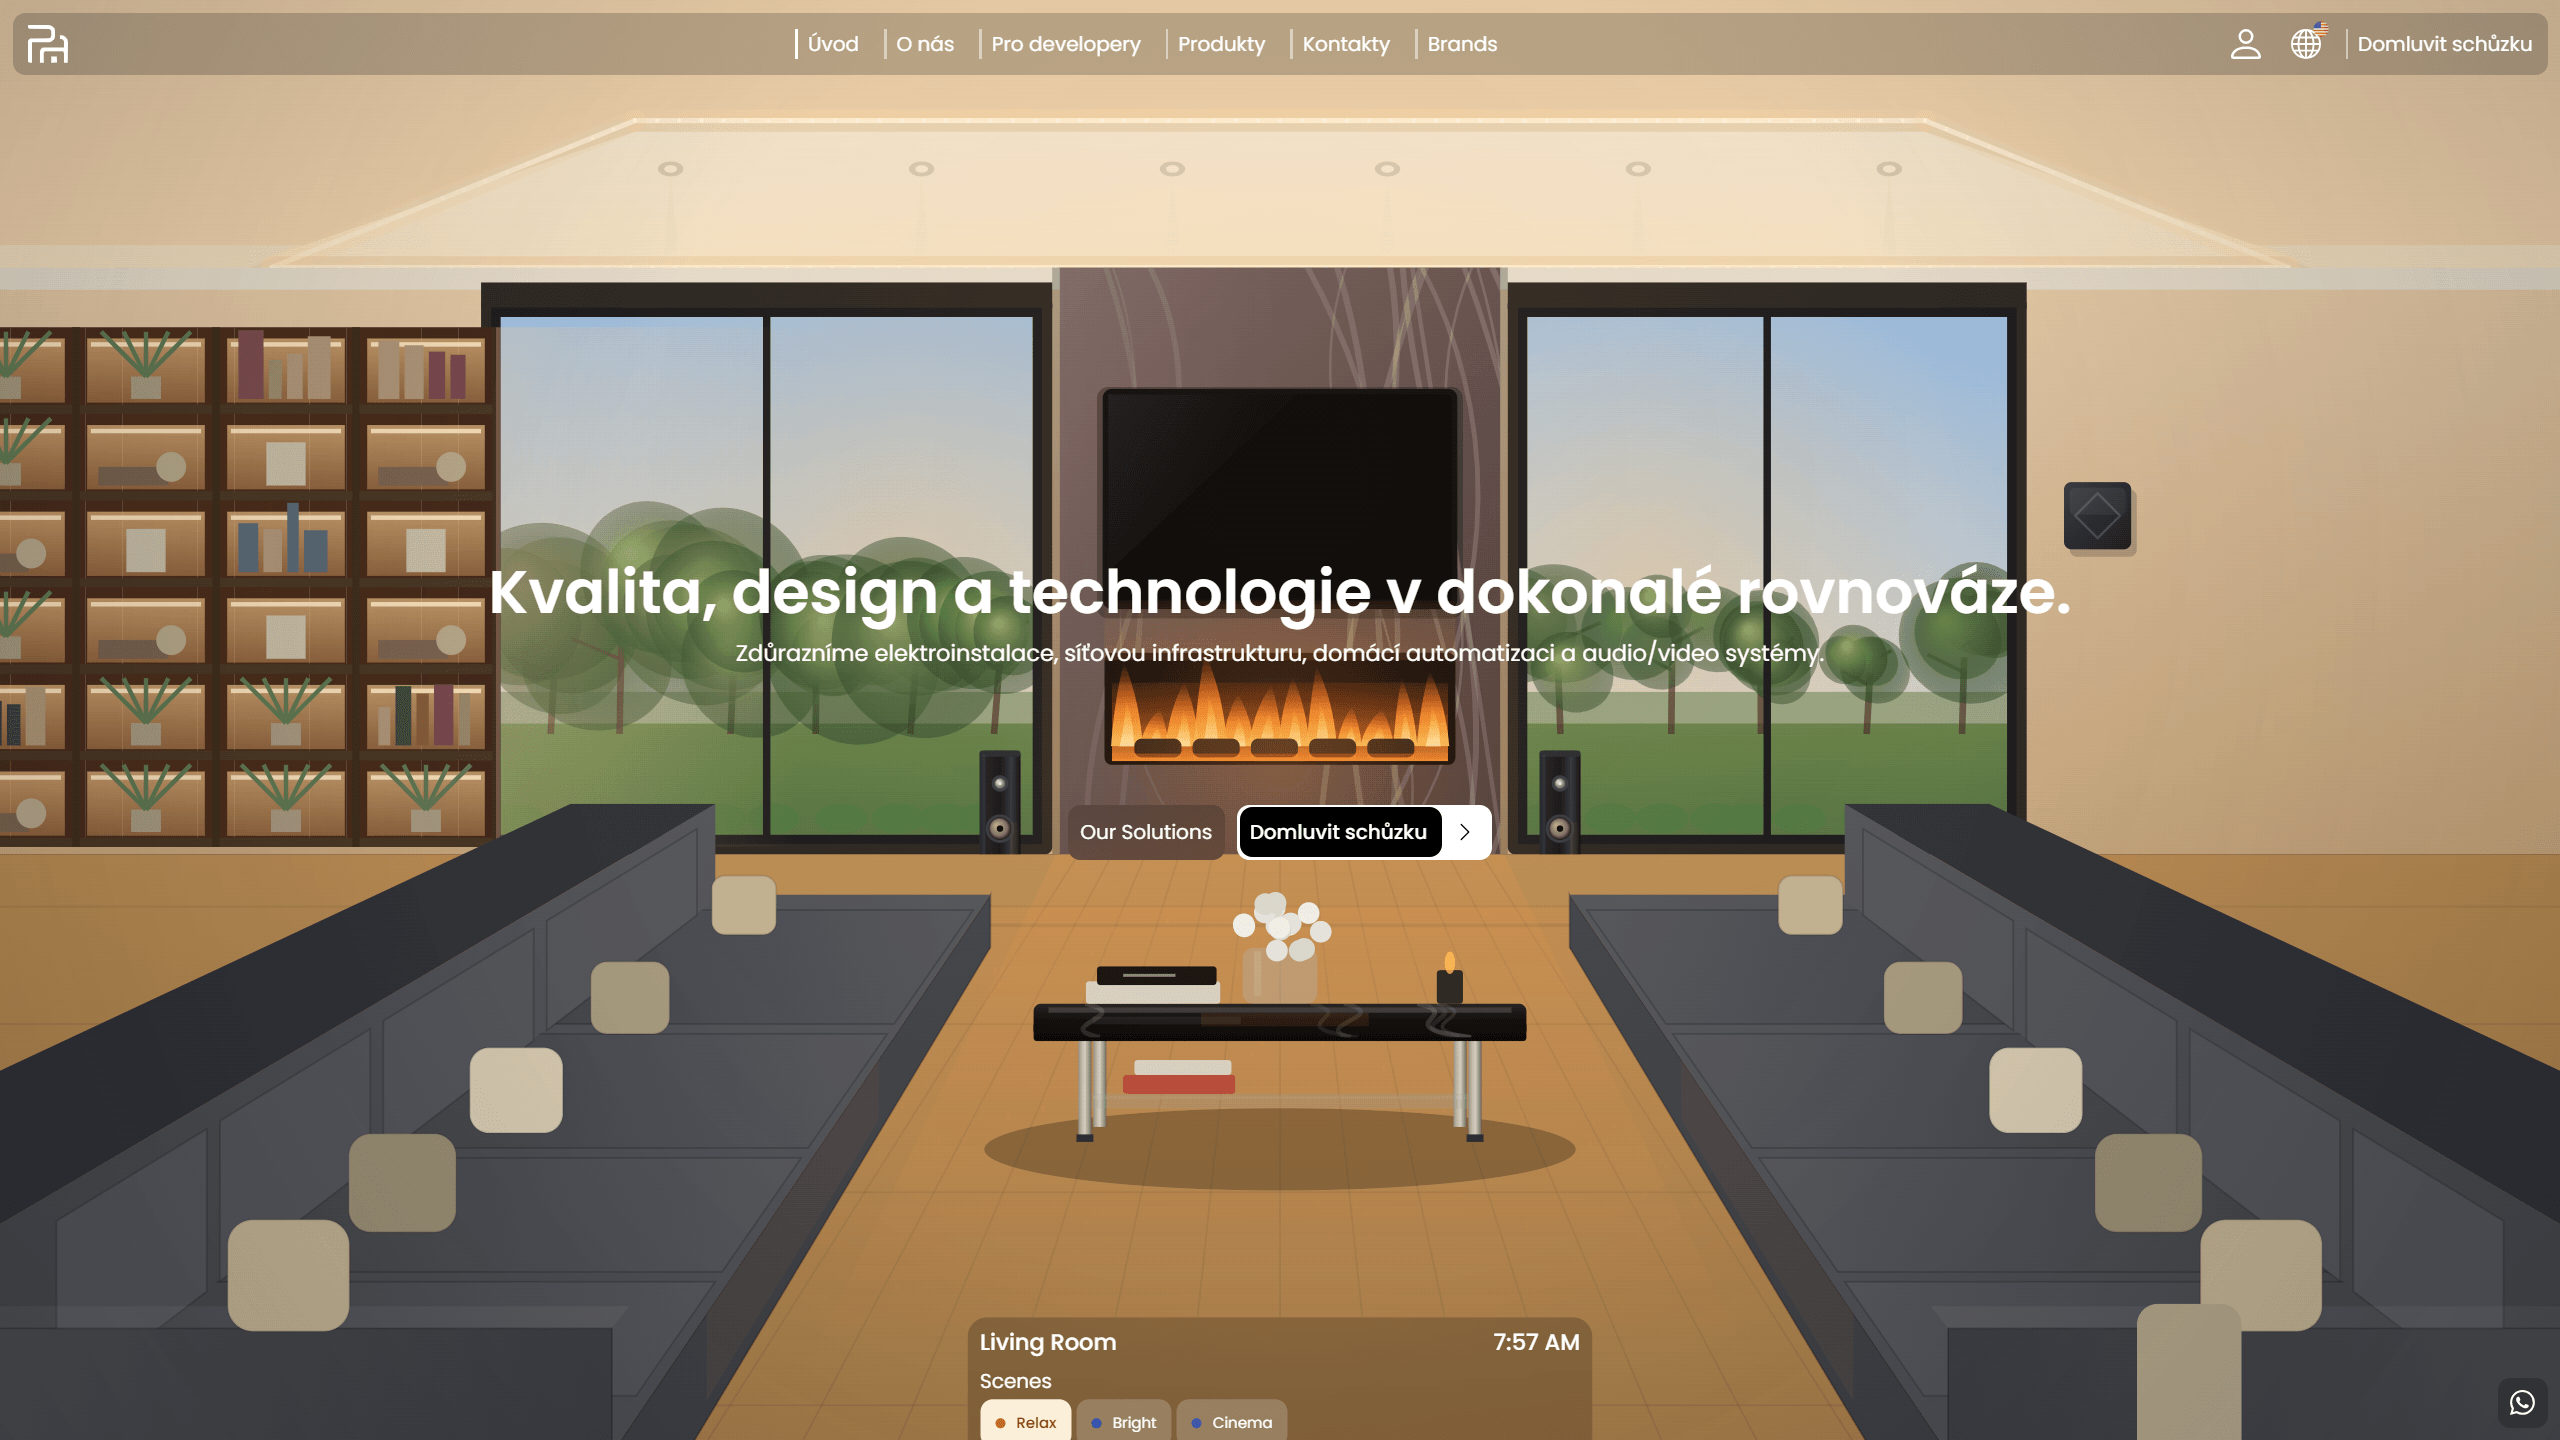
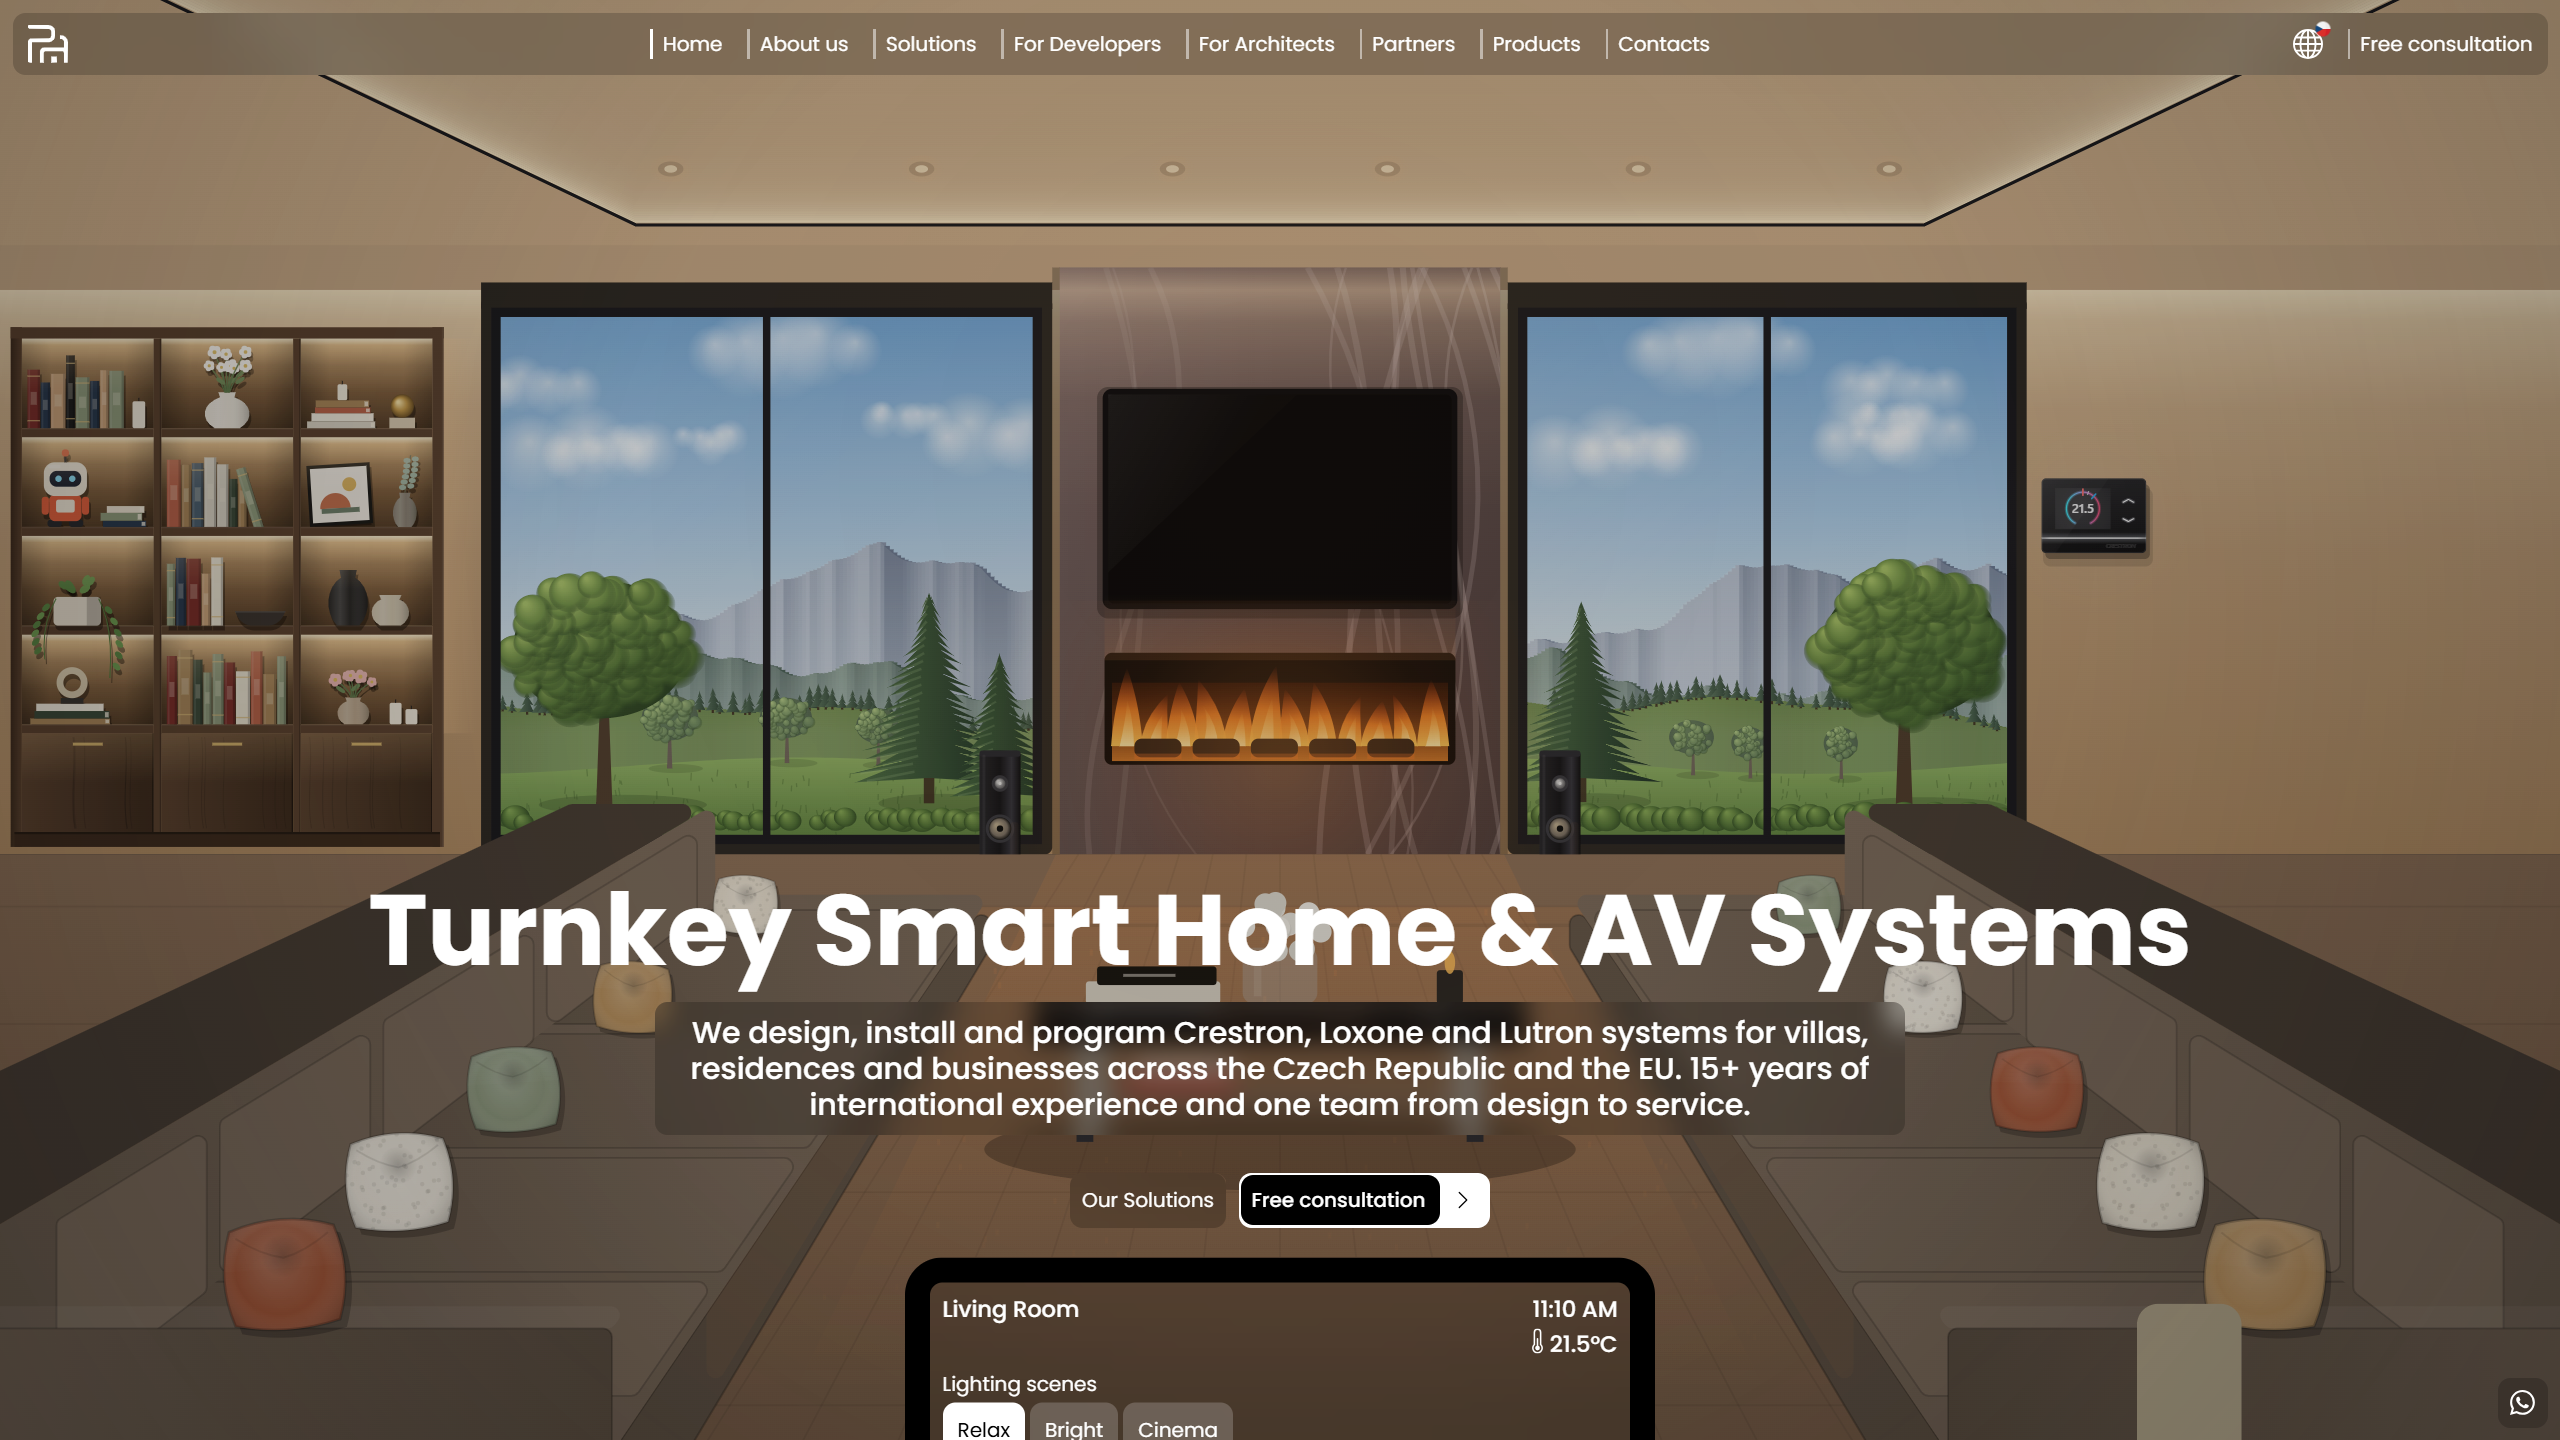
feat: add JSON-LD to home page

diff --git a/frontend/src/app/[locale]/page.tsx b/frontend/src/app/[locale]/page.tsx
@@ -8,6 +8,7 @@ import FeaturedWork from "@/components/home/FeaturedWork/FeaturedWork";
 import ContactUs from "@/components/ContactUs/ContactUs";
 import styles from "./Home.module.scss";
 import Hero from "@/components/home/Hero/Hero";
+import { BASE_URL } from "@/lib/constants";
 
 export async function generateMetadata({
 	params,
@@ -34,17 +35,51 @@ export async function generateMetadata({
 }
 
 export default function Home() {
+	const jsonLd = {
+		"@context": "https://schema.org",
+		"@graph": [
+			{
+				"@type": "Organization",
+				"@id": `${BASE_URL}/#organization`,
+				name: "heeeyooo studio",
+				url: BASE_URL,
+				logo: {
+					"@type": "ImageObject",
+					url: `${BASE_URL}/heeeyooo-studio-logo-white-v1.svg`,
+					contentUrl: `${BASE_URL}/heeeyooo-studio-logo-white-v1.svg`,
+				},
+				description: "Creative web design and development studio.",
+				email: "hello@heeeyooo.com",
+				sameAs: ["https://www.instagram.com/heeeyooo.studio/"],
+			},
+			{
+				"@type": "WebSite",
+				"@id": `${BASE_URL}/#website`,
+				url: BASE_URL,
+				name: "heeeyooo studio",
+				publisher: { "@id": `${BASE_URL}/#organization` },
+				inLanguage: ["en", "uk", "cs"],
+			},
+		],
+	};
+
 	return (
-		<main className={styles.home}>
-			<Container>
-				<div className={styles["home-inner"]}>
-					<Hero />
-					<FeaturedWork />
-					<Services />
-					<Technologies />
-					<ContactUs />
-				</div>
-			</Container>
-		</main>
+		<>
+			<script
+				type="application/ld+json"
+				dangerouslySetInnerHTML={{ __html: JSON.stringify(jsonLd) }}
+			/>
+			<main className={styles.home}>
+				<Container>
+					<div className={styles["home-inner"]}>
+						<Hero />
+						<FeaturedWork />
+						<Services />
+						<Technologies />
+						<ContactUs />
+					</div>
+				</Container>
+			</main>
+		</>
 	);
 }
